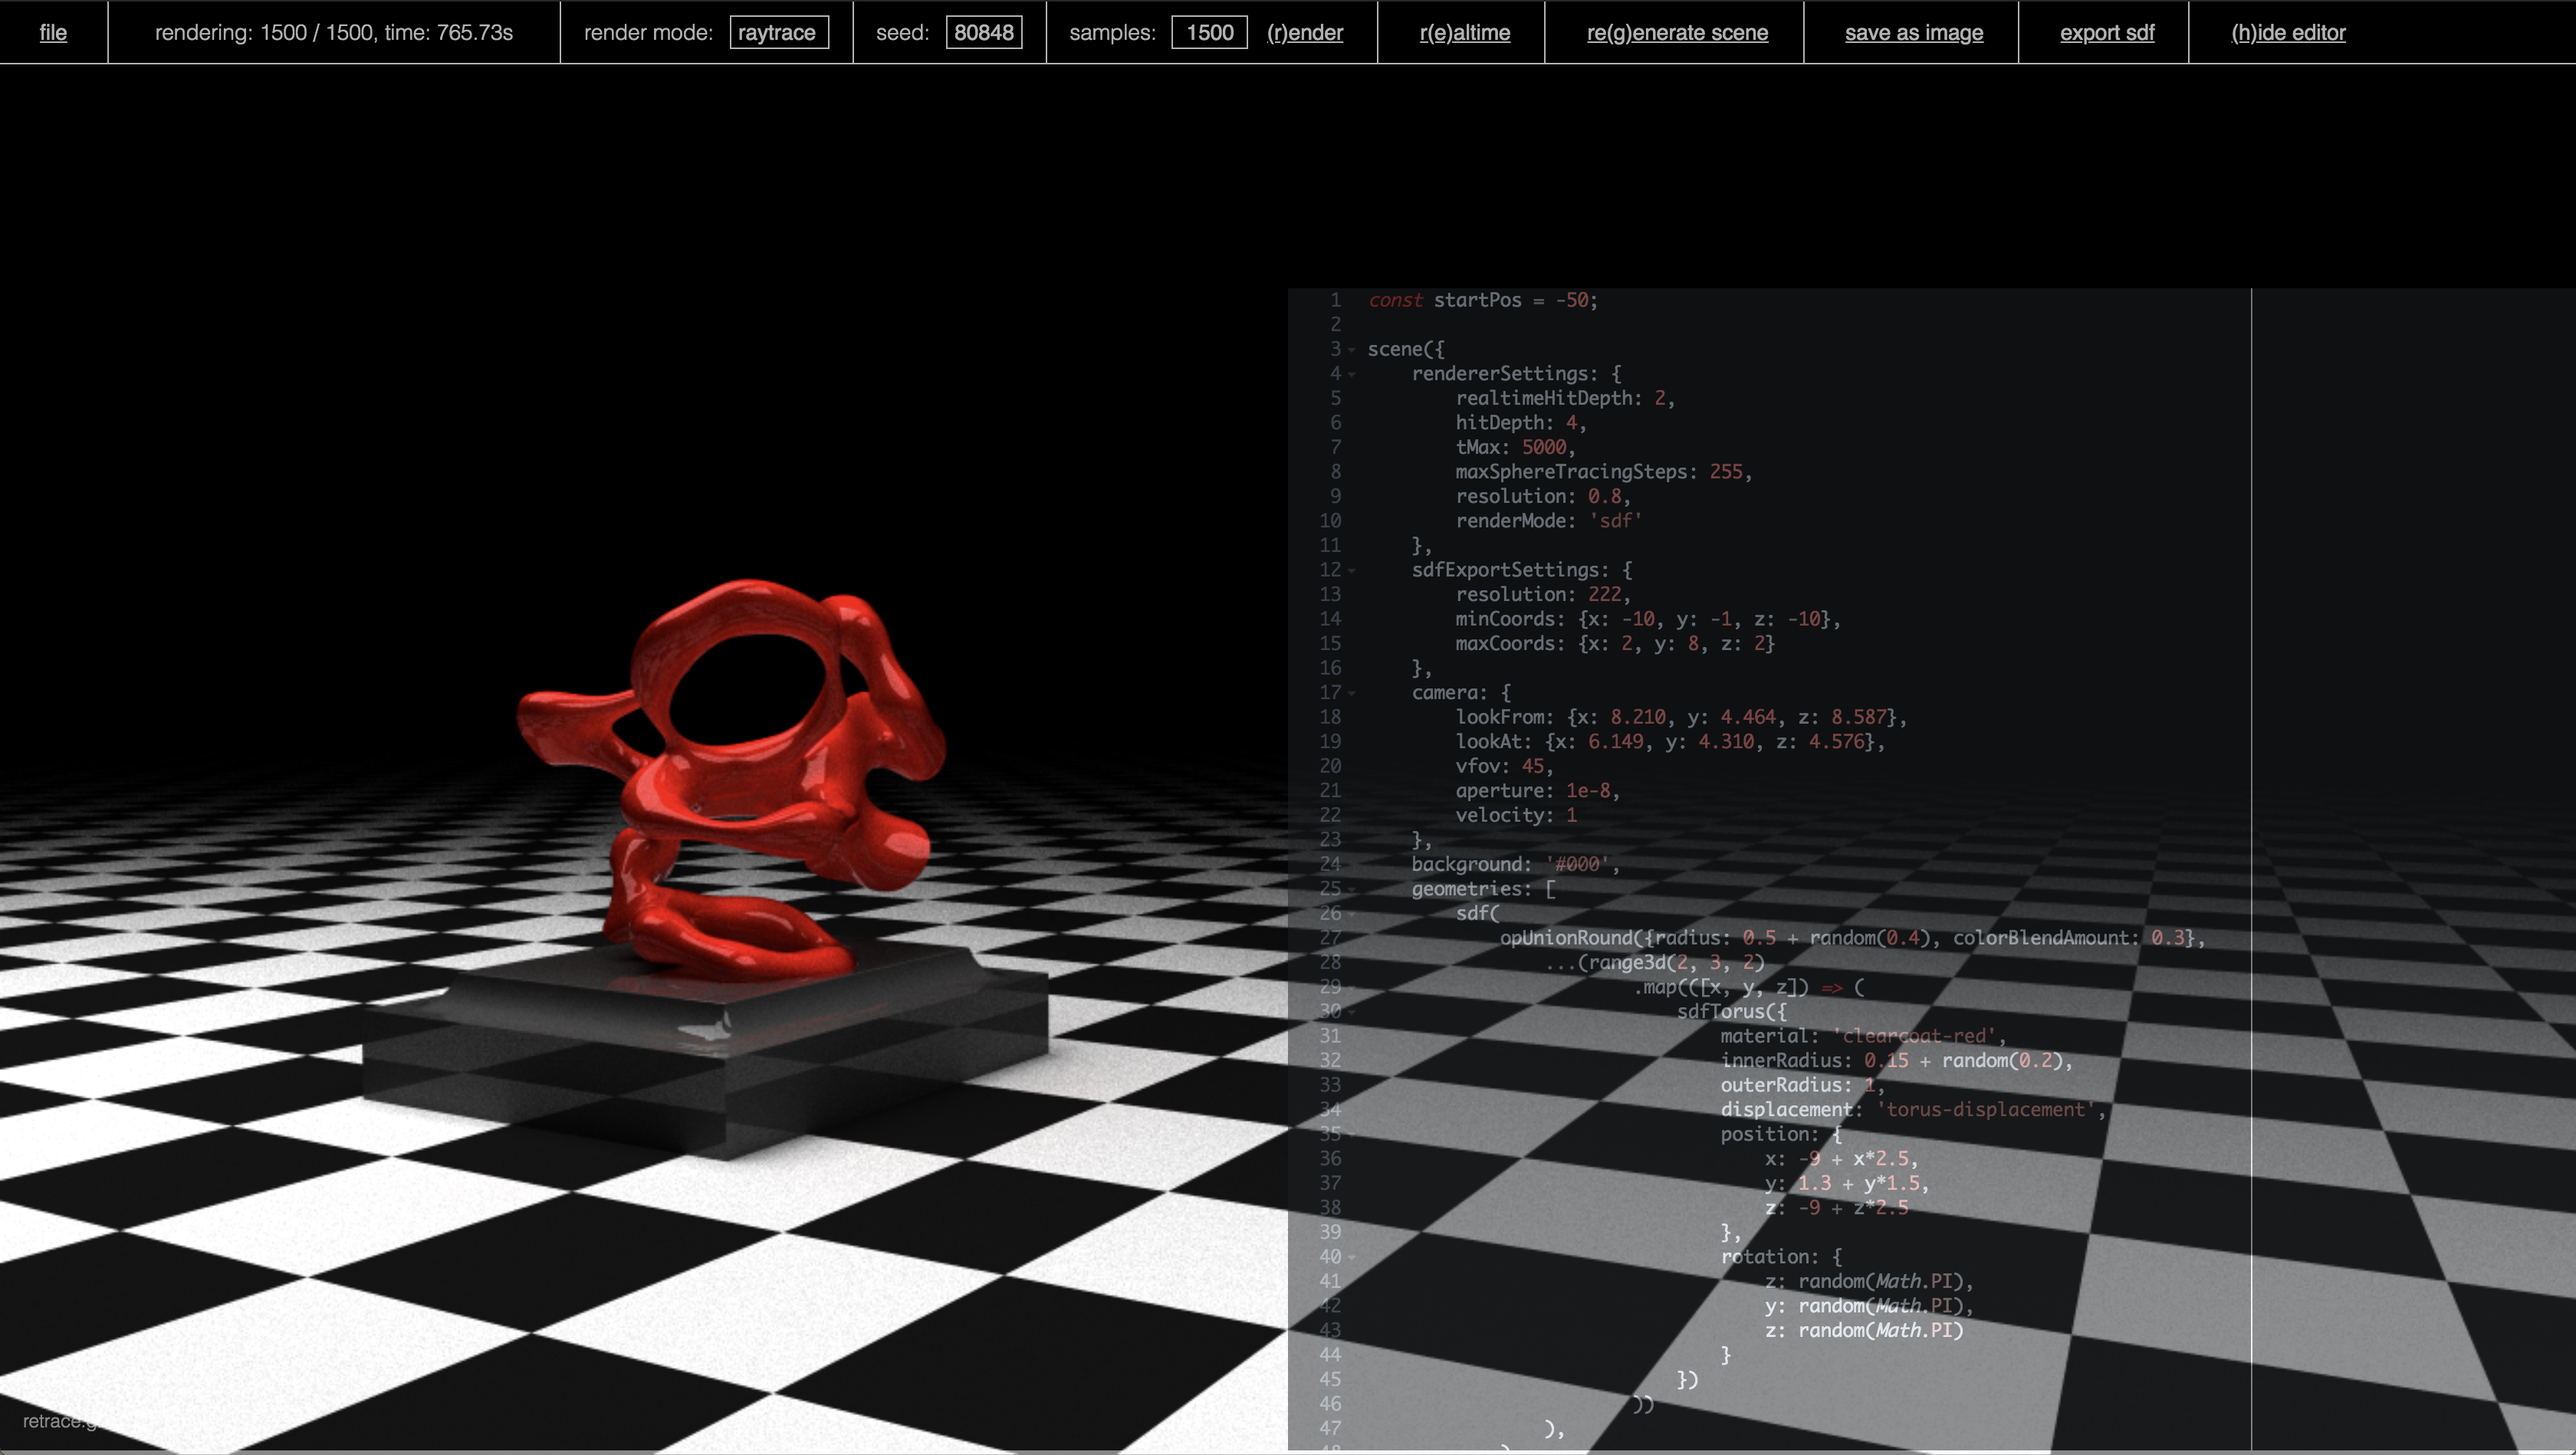
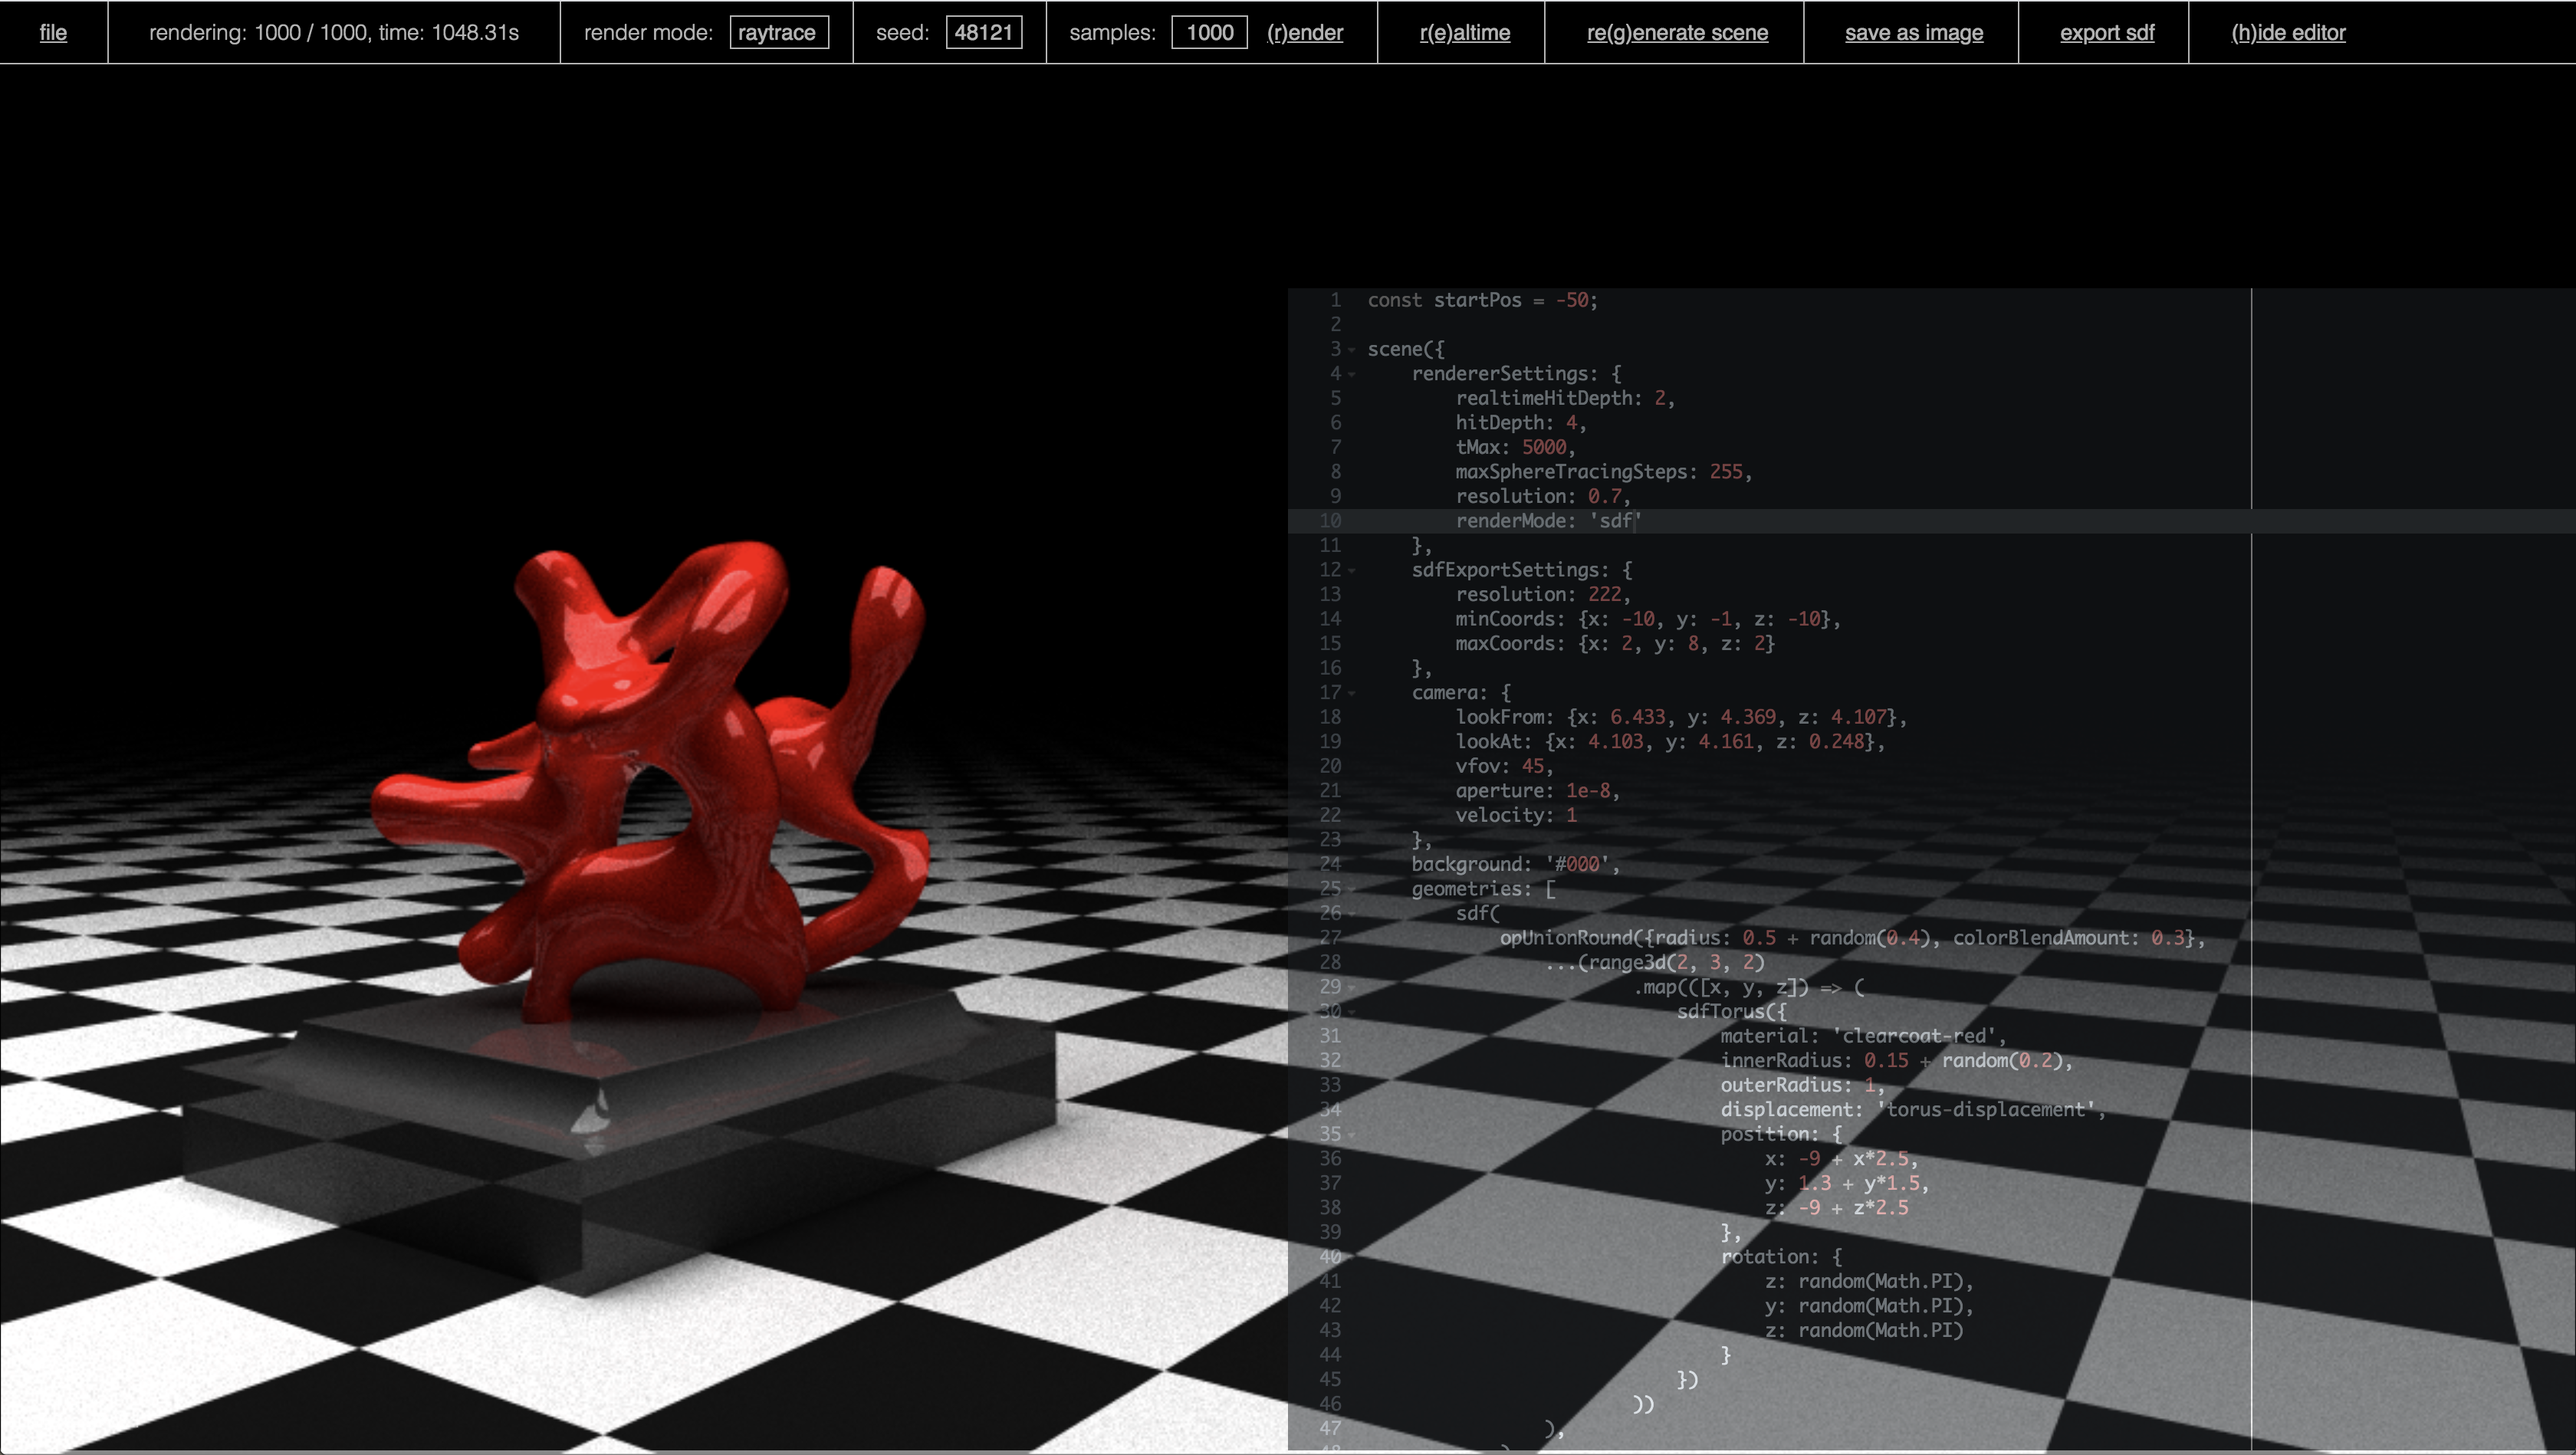
Update README & screenshot

diff --git a/README.md b/README.md
@@ -1,10 +1,12 @@
 
 # retrace.gl - SDF sculpting & path tracing app
-Programatically defined geometries with an API suited for generative art - in your browser! :tada:
+Programatically defined (generative) geometries with an API suited for generative art - in your browser! :tada:
 
 ![retrace](https://github.com/stasilo/retrace.gl/raw/master/docs/assets/sdf-sculpture-screen.png)
 
-[Live demo](https://stasilo.github.io/raytracer-demo/?scene=assets/scenes/sdf-sculpture/index.js.rtr) - press *regenerate scene* to generate a new goemetry.
+[Live demo](https://stasilo.github.io/raytracer-demo/?scene=assets/scenes/sdf-sculpture/index.js.rtr)
+
+Press **regenerate scene** to generate a new goemetry. Generated one you like, have you? Save the random seed value from the ui - return to your favorites! :star:
 
 ---
 Retrace.gl is an SDF sculptor software and physically based path tracer written in webgl2/glsl. It has a declarative scene API geared towards generative art, with support for dynamic composition of SDF CSG's (Constructive Solid Geometries composed of Signed Distance Functions), using a Javascript API.
